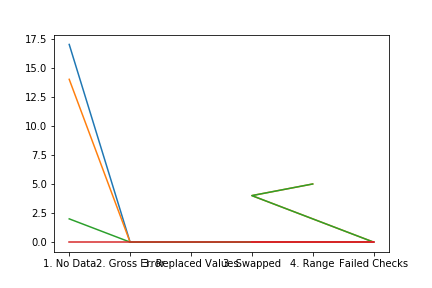
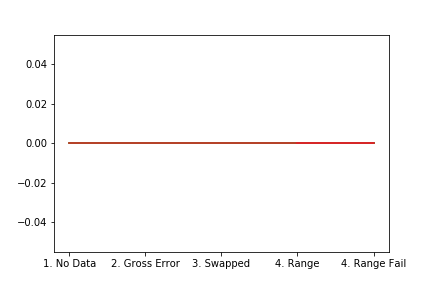
fixed column issues

diff --git a/program_09.py b/program_09.py
@@ -22,11 +22,13 @@ def ReadData( fileName ):
     colNames = ['Date','Precip','Max Temp', 'Min Temp','Wind Speed']
 
     # open and read the file
+    global DataDF
     DataDF = pd.read_csv("DataQualityChecking.txt",header=None, names=colNames,  
                          delimiter=r"\s+",parse_dates=[0])
     DataDF = DataDF.set_index('Date')
     
     # define and initialize the missing data dictionary
+    global ReplacedValuesDF
     ReplacedValuesDF = pd.DataFrame(0, index=['1. No Data', '2. Gross Error', '3. Swapped', '4. Range Fail'], columns=colNames[1:])
      
     return( DataDF, ReplacedValuesDF )
@@ -64,7 +66,7 @@ def Check02_GrossErrors( DataDF, ReplacedValuesDF ):
     
     #precipitation GEC 
     for i in range (0,len(DataDF)-1):
-           if (DataDF.iloc[i,0]<0) or (DataDF.iloc[i,0]> 25):
+           if (DataDF.iloc[i,0]< 0) or (DataDF.iloc[i,0]>25):
                DataDF.iloc[i,0]= np.nan
         
     #temperature GEC
@@ -81,12 +83,12 @@ def Check02_GrossErrors( DataDF, ReplacedValuesDF ):
     #Wind Speed GEC           
     for i in range (0,len(DataDF)-1):
            if (DataDF.iloc[i, 3]< 0) or (DataDF.iloc[i, 3]> 10):
-               DataDF.iloc[i,0]= np.nan
+               DataDF.iloc[i,3]= np.nan
 
-    ReplacedValuesDF.iloc[0,0]=DataDF['Precip'].isna().sum() - ReplacedValuesDF.iloc[0,0]
-    ReplacedValuesDF.iloc[0,1]=DataDF['Max Temp'].isna().sum() - ReplacedValuesDF.iloc[0,1]
-    ReplacedValuesDF.iloc[0,2]=DataDF['Min Temp'].isna().sum() - ReplacedValuesDF.iloc[0,2]
-    ReplacedValuesDF.iloc[0,3]=DataDF['Wind Speed'].isna().sum() - ReplacedValuesDF.iloc[0,3]
+    ReplacedValuesDF.iloc[1,0]=DataDF['Precip'].isna().sum() - ReplacedValuesDF.iloc[0,0]
+    ReplacedValuesDF.iloc[1,1]=DataDF['Max Temp'].isna().sum() - ReplacedValuesDF.iloc[0,1]
+    ReplacedValuesDF.iloc[1,2]=DataDF['Min Temp'].isna().sum() - ReplacedValuesDF.iloc[0,2]
+    ReplacedValuesDF.iloc[1,3]=DataDF['Wind Speed'].isna().sum() - ReplacedValuesDF.iloc[0,3]
 
     return( DataDF, ReplacedValuesDF )
     
@@ -127,6 +129,7 @@ def Check03_TmaxTminSwapped( DataDF, ReplacedValuesDF ):
     return( DataDF, ReplacedValuesDF )
     
 def Check04_TmaxTminRange( DataDF, ReplacedValuesDF ):
+    
     """This function checks for days when maximum air temperture minus 
     minimum air temperature exceeds a maximum range, and replaces both values 
     with NaNs when found.  The function returns modified DataFrames with data 
@@ -135,6 +138,7 @@ def Check04_TmaxTminRange( DataDF, ReplacedValuesDF ):
     
     # add your code here
     
+    '''
     # find the number of days when max air temp minus min air temp is greater than or equal to 25 degrees celcius (outliers)
        
     Tdays_cum= len(DataDF.loc[(DataDF['Max Temp'] - DataDF['Min Temp']>=25)])
@@ -144,7 +148,16 @@ def Check04_TmaxTminRange( DataDF, ReplacedValuesDF ):
     
     # total ampount (cumulative) data values that are replaced with NAN
     ReplacedValuesDF.loc["4. Range"]=[0, Tdays_cum, Tdays_cum, 0]
-
+    '''
+    
+    for i in range (0, len(DataDF)-1):
+        if (DataDF.iloc[i,1]-DataDF.iloc[i,2]) >=25:
+            DataDF.iloc[i,1]=np.nan
+            DataDF.iloc[i,2]=np.nan
+            
+    ReplacedValuesDF.iloc[3,1]=DataDF['Max Temp'].isna().sum()-(ReplacedValuesDF.iloc[1,1] + ReplacedValuesDF.iloc[0,1])
+    ReplacedValuesDF.iloc[3,2]=DataDF['Min Temp'].isna().sum()-(ReplacedValuesDF.iloc[1,2] +ReplacedValuesDF.iloc[0,2])
+    
     return( DataDF, ReplacedValuesDF )
     
 
@@ -176,9 +189,20 @@ if __name__ == '__main__':
     print("\nAll processing finished.....\n", DataDF.describe())
     print("\nFinal changed values counts.....\n", ReplacedValuesDF)
     
-    plt.plot(ReplacedValuesDF)
-    plt.savefig('repval.png')
+    #check 01
+    Check01_RemoveNoDataValues( DataDF, ReplacedValuesDF )
 
+    #check 02
+    Check02_GrossErrors( DataDF, ReplacedValuesDF )
+
+    #Check 03
+    Check03_TmaxTminSwapped( DataDF, ReplacedValuesDF )
+
+    #check 04
+    Check04_TmaxTminRange( DataDF, ReplacedValuesDF )
+    
+    
+    
 ##################################################################
     # Plot each dataset before and after correction has been made.
     #Use a single set of axis for each variable, and
@@ -230,6 +254,7 @@ if __name__ == '__main__':
     plt.xticks(rotation=20)
     plt.legend(loc='upper right')
     plt.savefig('wind_fix.png')
+    plt.show()
     plt.close() 
 
     #export data quality check (DQC) data frame (DF) to text file
